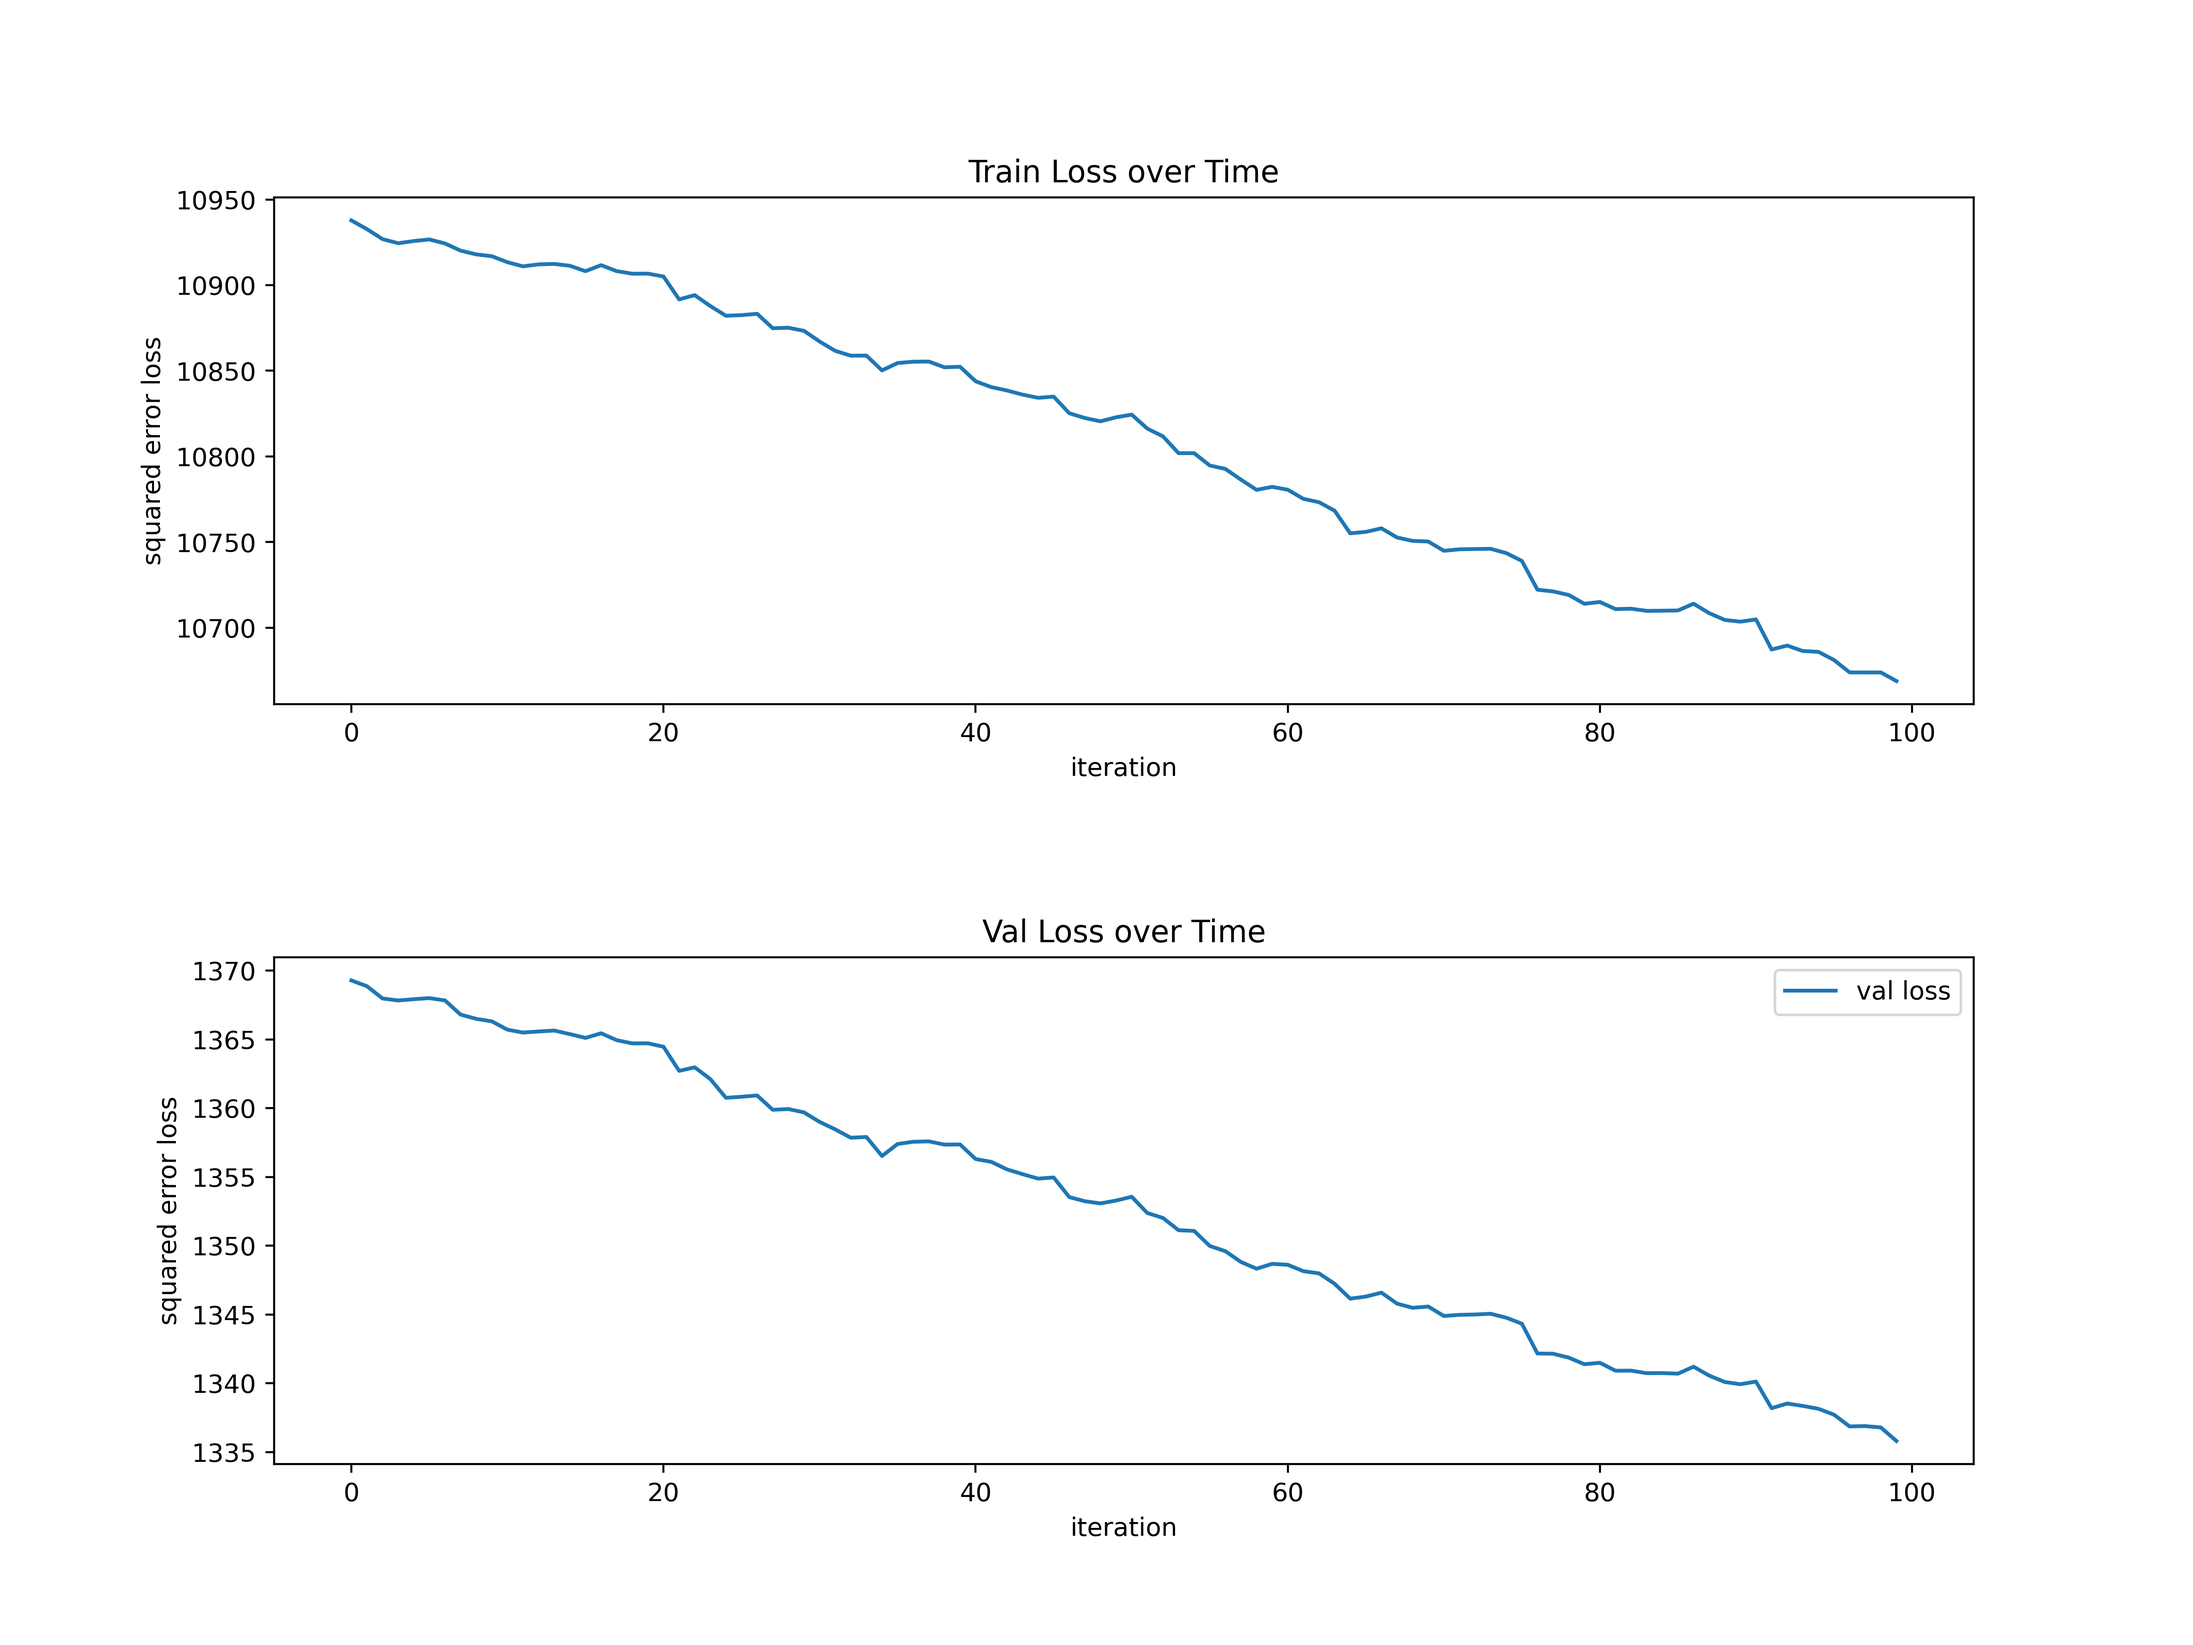
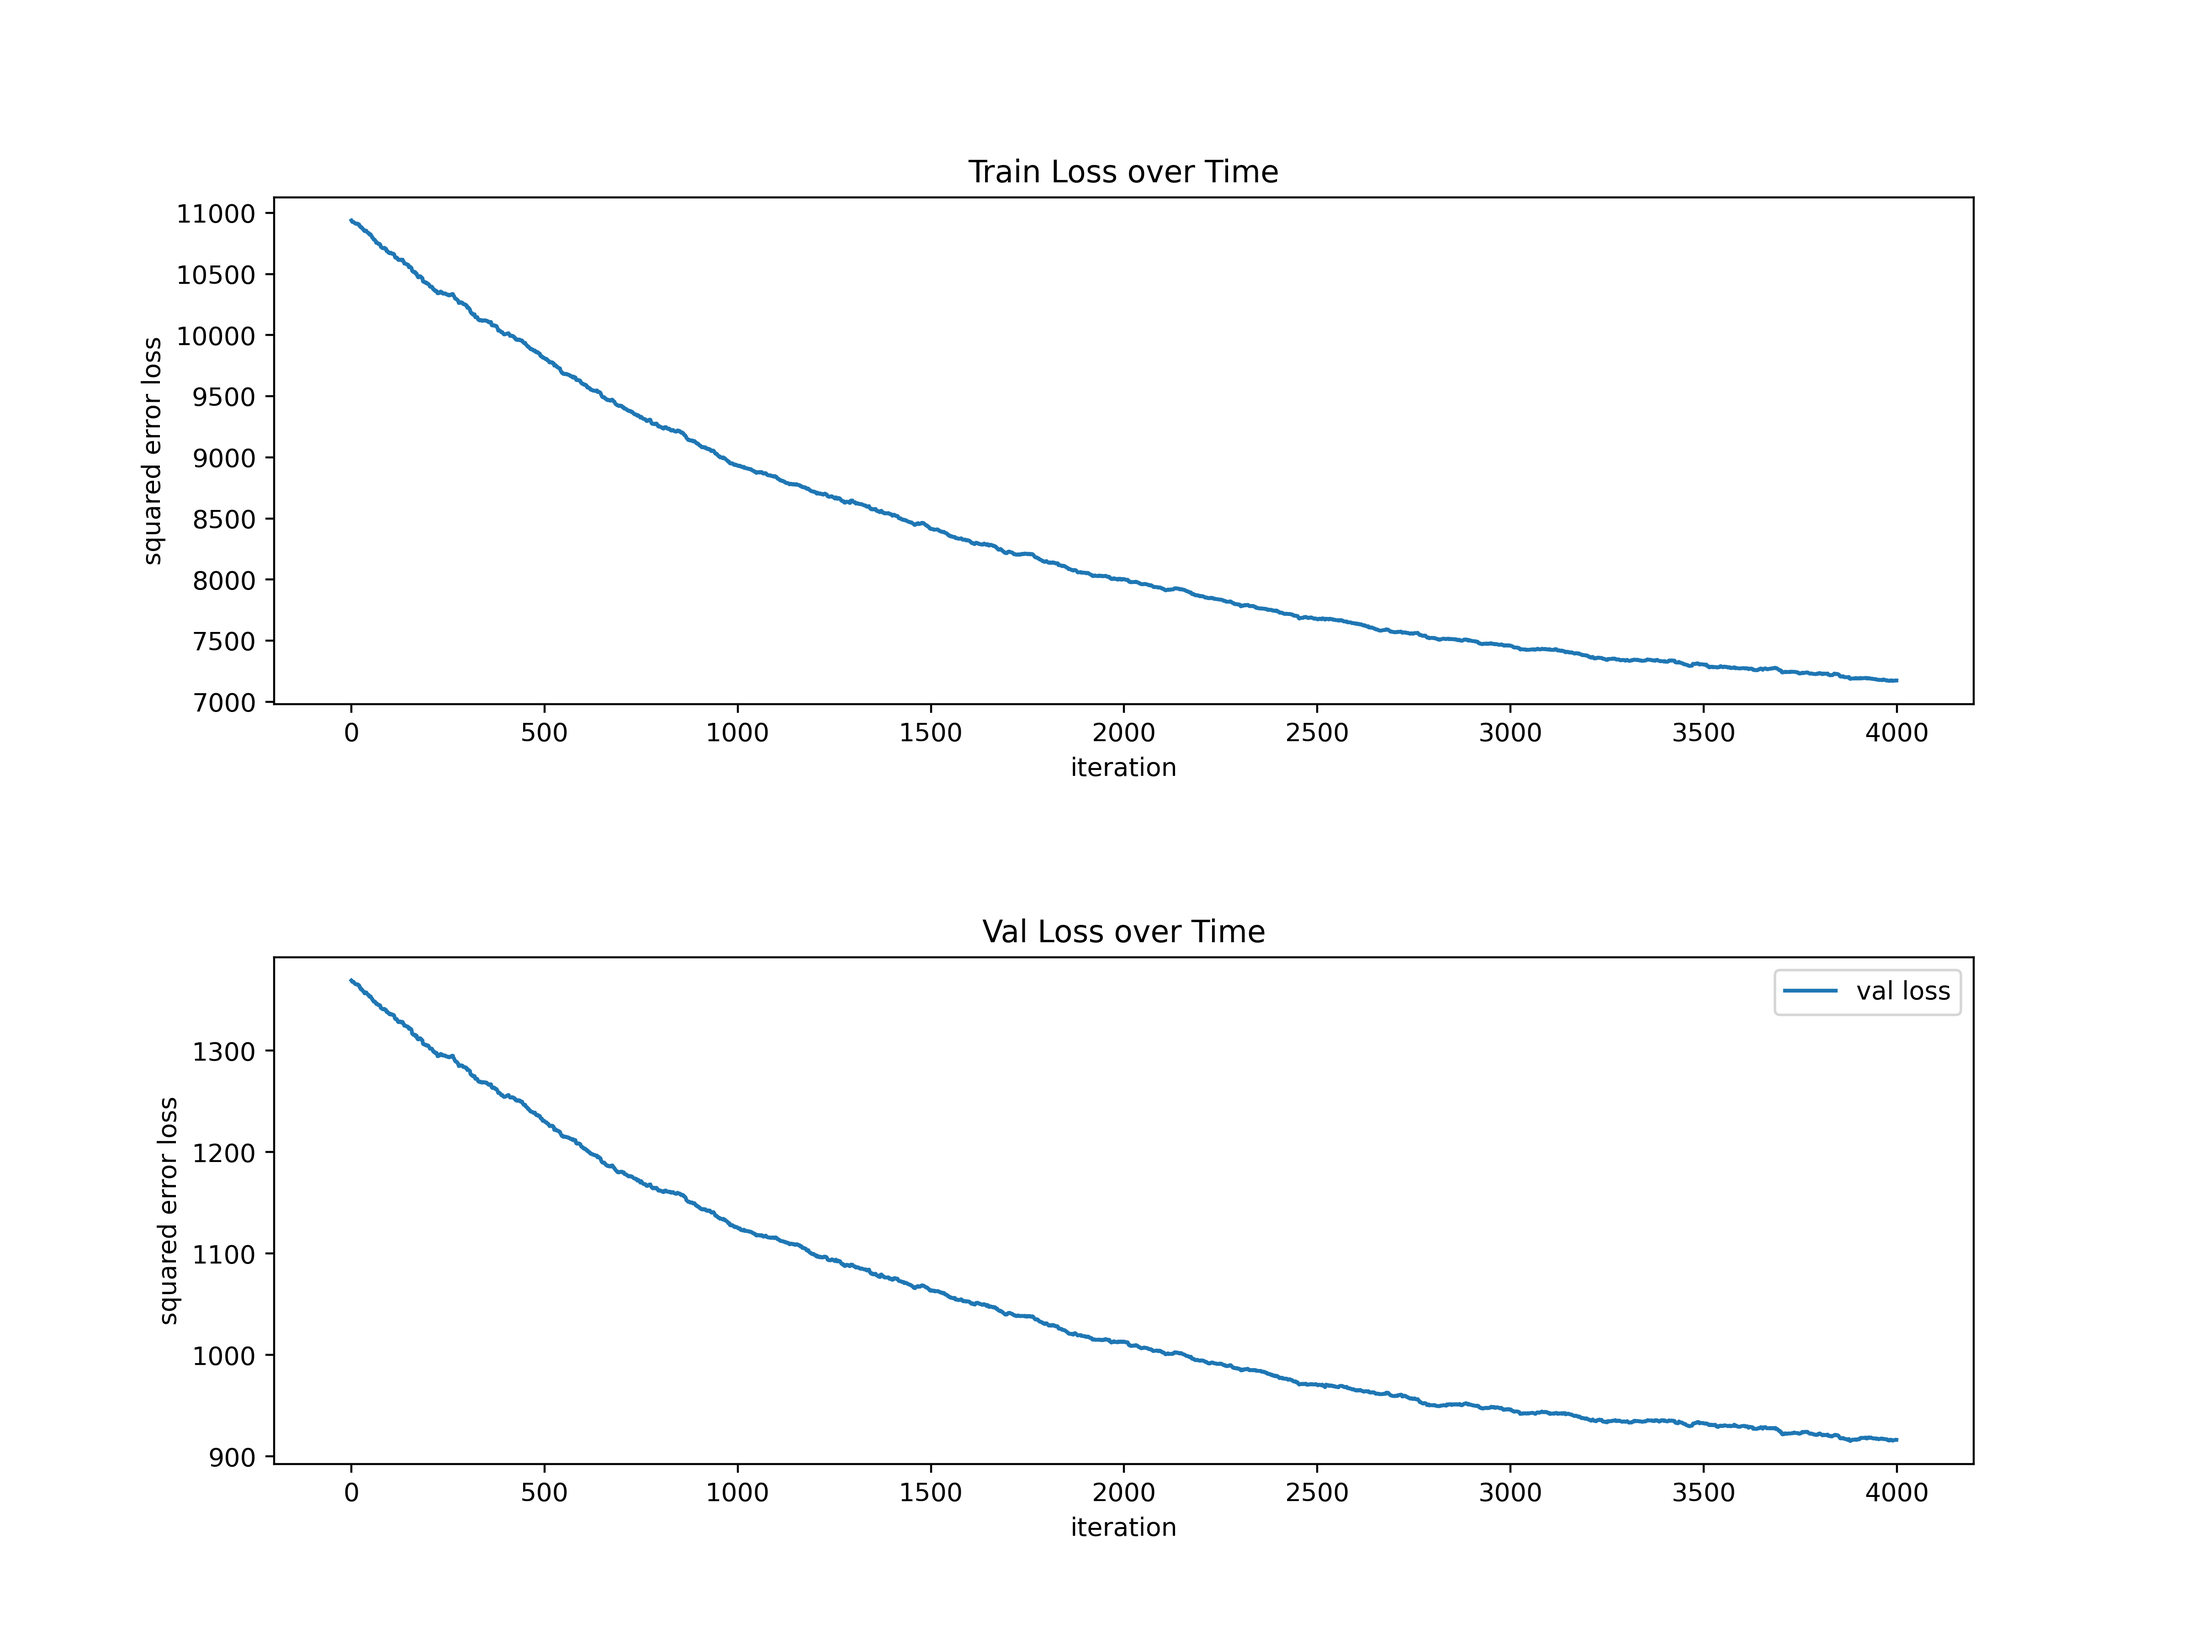
update A.3.1

diff --git a/part_a/matrix_factorization.py b/part_a/matrix_factorization.py
@@ -123,13 +123,16 @@ def als(train_data, k, lr, num_iteration, val_data = None):
     # TODO:                                                             #
     # Implement the function as described in the docstring.             #
     #####################################################################
-    for _ in range(num_iteration):
+    for i in range(num_iteration):
         train_loss = squared_error_loss(train_data, u, z)
         if val_data:
             val_loss = squared_error_loss(val_data, u, z)
             losses["val"].append(val_loss)
         u, z = update_u_z(train_data, lr, u, z)
         losses["train"].append(train_loss)
+
+        if i % 50 == 0:
+            print(train_loss)
 
     mat = u @ z.T
     #####################################################################
@@ -147,9 +150,14 @@ def accuracy_fn(preds, truth):
     """
     return sum([1 if i == j else 0 for i, j in zip(preds, truth)])/len(preds)
 
-def plot_loss(train_data, val_data, k, lr, iter):
+def plot_loss(train_data, val_data, test_data, k, lr, iter):
     
-    _, loss = als(train_data, k, lr, iter, val_data)
+    m, loss = als(train_data, k, lr, iter, val_data)
+    preds_val = sparse_matrix_predictions(val_data, m)
+    preds_test = sparse_matrix_predictions(test_data, m)
+    print(f"val acc : {accuracy_fn(val_data['is_correct'], preds_val)}")
+    print(f"test acc : {accuracy_fn(test_data['is_correct'], preds_test)}")
+
 
     plt.figure(figsize=(12, 9))
     plt.subplots_adjust(hspace=0.5)
@@ -188,7 +196,7 @@ def main():
         accuracy = accuracy_fn(preds, val_data["is_correct"])
         print(f"Accuracy for k = {k} is {accuracy:4f}")
 
-    #  TODO: print validation and test acc
+    # print validation and test acc
     m  = svd_reconstruct(train_matrix, 9)
     preds = sparse_matrix_predictions(test_data, m)
     print(accuracy_fn(test_data["is_correct"], preds))
@@ -201,10 +209,10 @@ def main():
     # TODO:                                                             #
     # (ALS) Try out at least 5 different k and select the best k        #
     # using the validation set.                                         #
-    #####################################################################
+    ####################################################################
     num_latent = [3, 5, 9, 15, 20]
     lrs = [0.001, 0.01, 0.03, 0.1, 0.3]
-    iterations = [10, 20, 50, 100]
+    iterations = [10, 20, 50, 100, 500, 1000, 4000]
 
     results = {
         "k": [],
@@ -234,7 +242,7 @@ def main():
     
     #  TODO: plot data
 
-    plot_loss(train_data, val_data, 3, 0.3, 100)
+    plot_loss(train_data, val_data, test_data, 3, 0.3, 4000)
 
     #####################################################################
     #                       END OF YOUR CODE                            #
